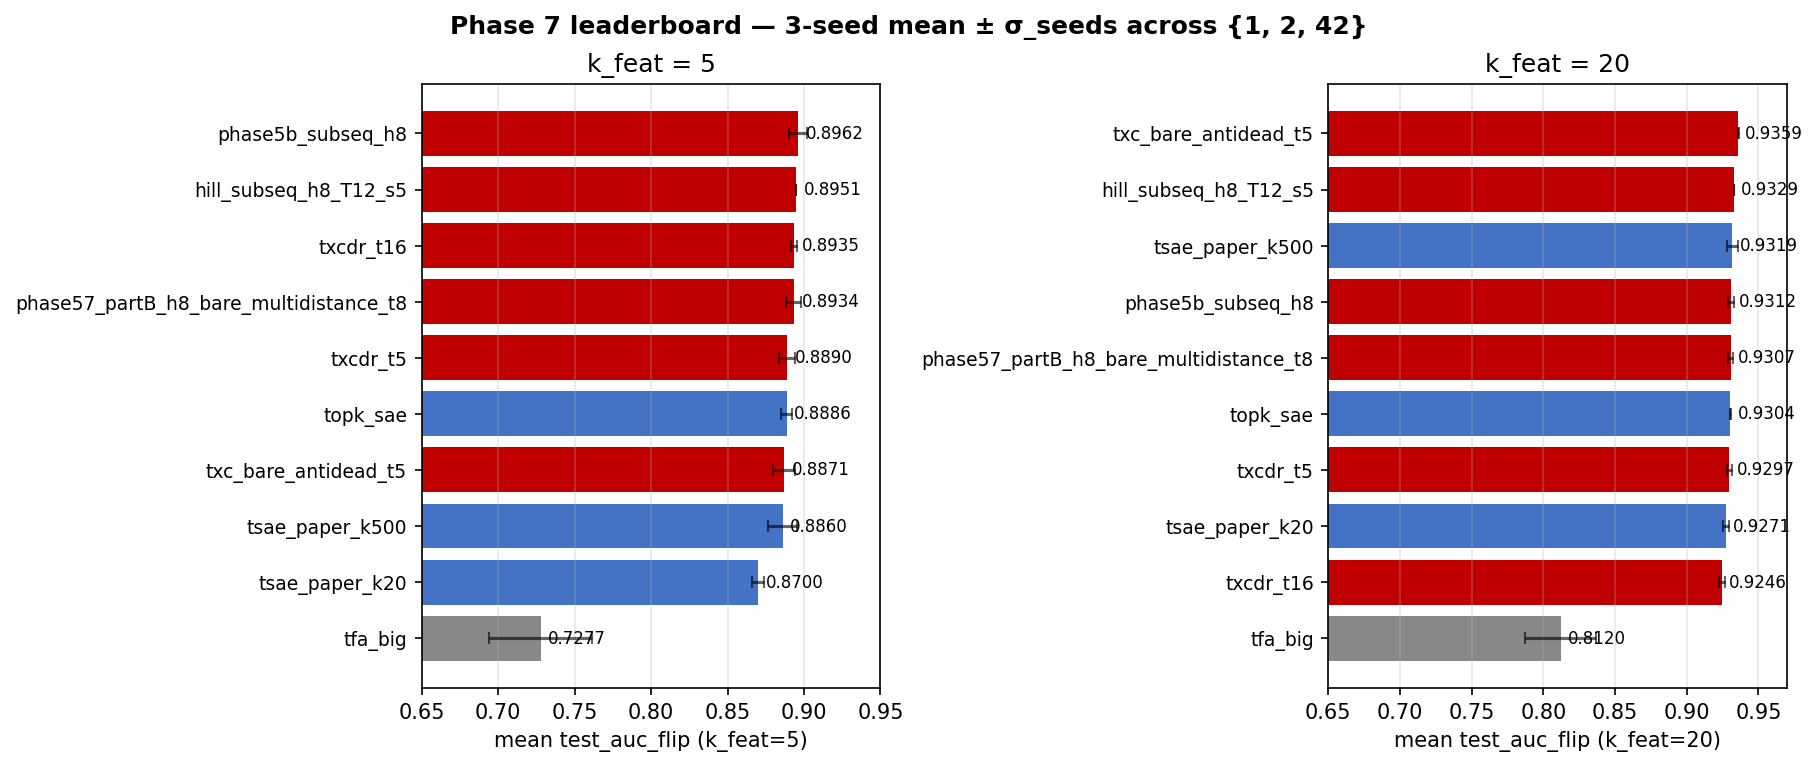
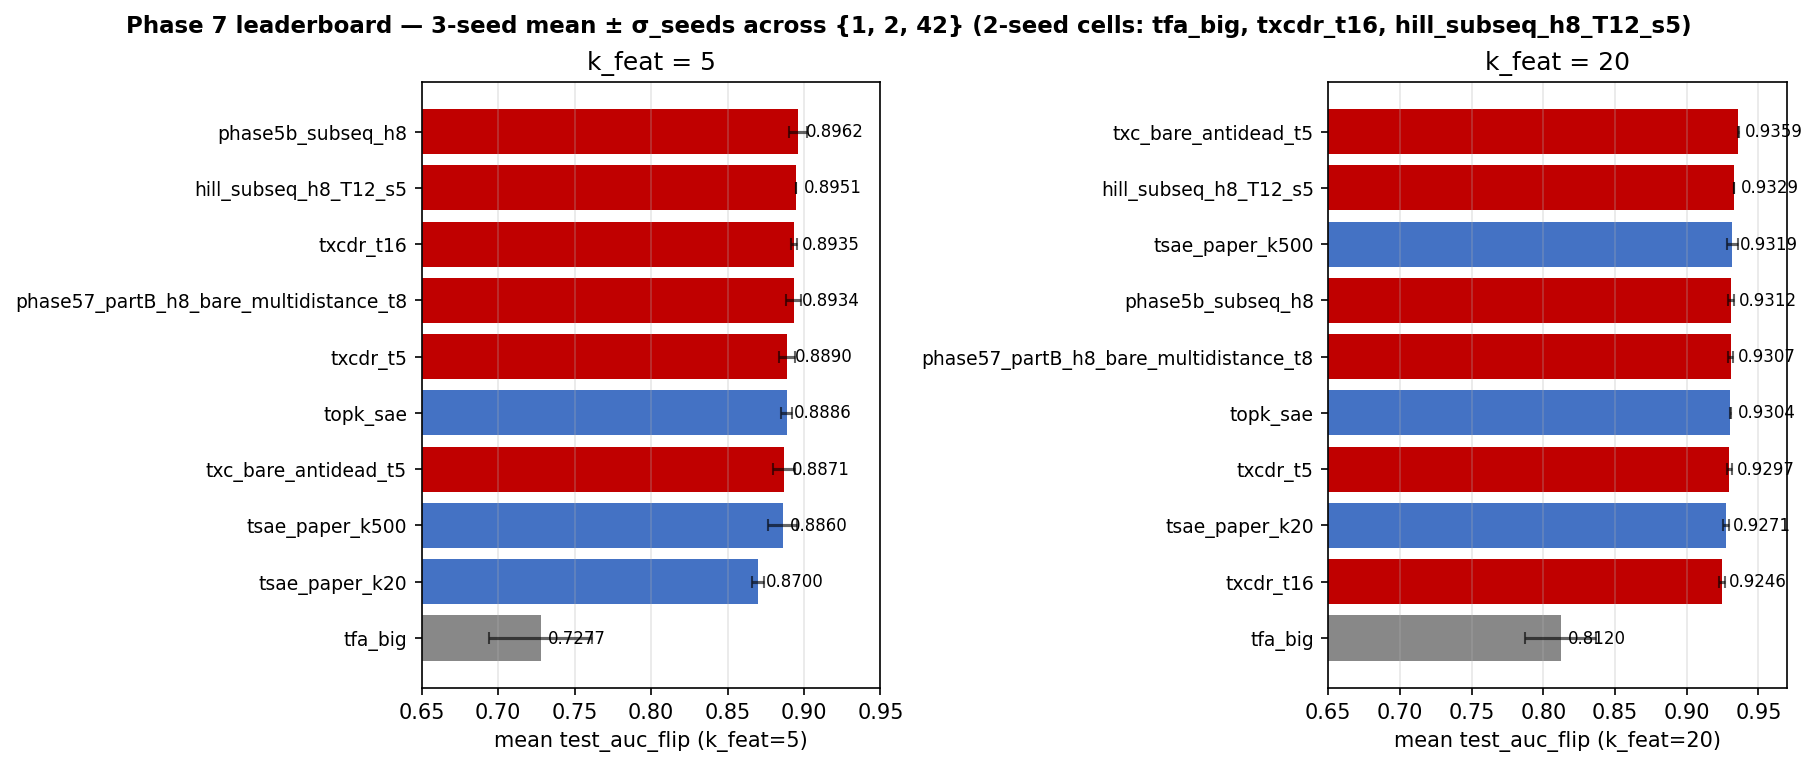
Phase 7: leaderboard plot title + summary preamble — sync to 3-seed

diff --git a/experiments/phase7_unification/build_leaderboard_2seed.py b/experiments/phase7_unification/build_leaderboard_2seed.py
@@ -165,8 +165,9 @@ def make_plot(rows, out_dir: Path):
         for i, m in enumerate(means):
             ax.text(m + 0.005, i, f"{m:.4f}", va="center", fontsize=8)
 
-    fig.suptitle("Phase 7 leaderboard — 3-seed mean ± σ_seeds across {1, 2, 42}",
-                 fontsize=12, weight="bold")
+    fig.suptitle("Phase 7 leaderboard — 3-seed mean ± σ_seeds across {1, 2, 42} "
+                 "(2-seed cells: tfa_big, txcdr_t16, hill_subseq_h8_T12_s5)",
+                 fontsize=11, weight="bold")
     out_path = out_dir / "phase7_leaderboard_multiseed.png"
     save_figure(fig, str(out_path))
     plt.close(fig)

diff --git a/docs/han/research_logs/phase7_unification/summary.md b/docs/han/research_logs/phase7_unification/summary.md
@@ -13,12 +13,17 @@ tags:
 After Y's 18-hour shift on case-studies + steering and X's 2-seed
 backfill, three findings revise the original headline:
 
-1. **2-seed leaderboard tightens the TXC lead.** With seed=1 + seed=42
-   means, TXC champion vs vanilla `topk_sae`: gap shrinks from 0.013
-   (seed=42 only) to **0.005** at k_feat=5, stays at 0.006 at k_feat=20.
-   σ_seeds is 0.005-0.010 on the top archs — TXC's lead is real and
-   directionally consistent but within ~1-2× seed-noise scale.
-   Full table: `2026-04-29-leaderboard-2seed.md`.
+1. **3-seed leaderboard tightens the TXC lead** (with seed=1 + seed=2 +
+   seed=42, where ckpts available; tfa_big, txcdr_t16, hill_subseq_h8_T12_s5
+   only have 1-2 seeds). Per-arch deltas TXC champion vs vanilla
+   `topk_sae`:
+   - k_feat=5: champion = `phase5b_subseq_h8` 0.8962, topk_sae 0.8886.
+     **Δ = 0.0076** (~1-2× σ_seeds 0.004-0.006). Top 8 archs within
+     0.010 — champion *identity* shifts with seed selection.
+   - k_feat=20: champion = `txc_bare_antidead_t5` 0.9359, topk_sae 0.9304.
+     **Δ = 0.0055** (~18× σ_seeds 0.0003). Decisive.
+   Full table: `2026-04-29-leaderboard-multiseed.md` (supersedes
+   the earlier `2026-04-29-leaderboard-2seed.md`).
 2. **Stacked-SAE control rejects "more candidate features" as the source
    of TXC's win.** Vanilla TopKSAE concat at K=2/K=5 last positions
    (giving 37k-92k candidate features vs TXC's 18k) loses to TXC by
